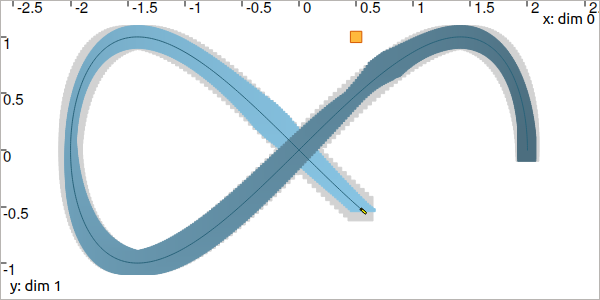
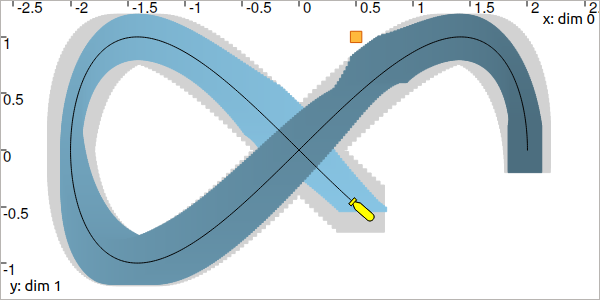
[tuto] updated Lesson E

Changed region(s): [[0.06, 0.03, 0.93, 0.96], [0.27, 0.84, 0.3, 0.87], [0.18, 0.84, 0.21, 0.87]]

diff --git a/doc/doc/tutorial/05-tubes/solution.py b/doc/doc/tutorial/05-tubes/solution.py
@@ -1,0 +1,80 @@
+from pyibex import *
+from tubex_lib import *
+import math
+
+# E.1.
+dt = 0.01
+tdomain = Interval(0,5) # temporal domain [t0,tf]
+actual_x = TrajectoryVector(tdomain, TFunction("(2*cos(t) ; sin(2*t))"), dt)
+
+# E.2.
+b=(0.5,1)
+
+# E.3.
+beginDrawing()
+
+fig_map = VIBesFigMap("Map")
+fig_map.set_properties(100, 100, 600, 300)
+fig_map.add_trajectory(actual_x, "x*", 0, 1, "black")
+fig_map.add_beacon(b, 0.1)                    # 0.1: landmark width
+fig_map.axis_limits(-2.5,2.5,-0.1,0.1, True)
+fig_map.show(0.5)                             # argument is robot size
+
+# E.4.
+actual_y = sqrt(sqr(actual_x[0]-b[0])+sqr(actual_x[1]-b[1]))
+
+# E.5.
+fig_dist = VIBesFigTube("Distance to the landmark")
+fig_dist.set_properties(100, 100, 600, 300)
+fig_dist.add_trajectory(actual_y, "y*")
+fig_dist.show()
+
+# E.6.
+x = TubeVector(actual_x, dt)
+
+# E.7.
+x.inflate(0.2)
+
+# E.8.
+fig_map.add_tube(x, "x", 0, 1)
+fig_map.show(0.5)
+
+# E.9.
+y = Tube(actual_y, dt)
+
+# E.10.
+b_box = IntervalVector(b) # creating a domain for b
+
+cn = ContractorNetwork()
+cn.add(ctc.dist, [x,b_box,y])
+cn.contract()
+fig_map.show(0.5)
+
+# E.11.
+actual_v = TrajectoryVector(tdomain, TFunction("(-2*sin(t) ; 2*cos(2*t))"), dt)
+v = TubeVector(actual_v, dt).inflate(0.01)
+
+# E.12.
+cn = ContractorNetwork()
+cn.add(ctc.dist, [x,b_box,y])
+cn.add(ctc.deriv, [x,v])
+cn.contract()
+fig_map.show(0.5)
+
+# E.13. (optional)
+n = RandTrajectory(tdomain, 0.01, Interval(-0.02,0.02))
+actual_y += n
+y = Tube(actual_y, dt)
+
+# E.14. (optional)
+y.inflate(0.02)
+
+# E.15. (optional)
+x = TubeVector(actual_x, dt).inflate(0.2)
+cn = ContractorNetwork()
+cn.add(ctc.dist, [x,b_box,y])
+cn.add(ctc.deriv, [x,v])
+cn.contract()
+fig_map.show(0.5)
+
+endDrawing()

diff --git a/doc/doc/tutorial/05-tubes/index.rst b/doc/doc/tutorial/05-tubes/index.rst
@@ -73,20 +73,22 @@ The following code creates the actual (but unknown) trajectory :math:`\mathbf{x}
 
   .. code-tab:: py
 
+    dt = 0.01
     tdomain = Interval(0,5) # temporal domain [t0,tf]
-    actual_x = TrajectoryVector(tdomain, TFunction("(2*cos(t) ; sin(2*t))"), 0.01)
+    actual_x = TrajectoryVector(tdomain, TFunction("(2*cos(t) ; sin(2*t))"), dt)
 
   .. code-tab:: c++
 
+    double dt = 0.01;
     Interval tdomain(0,5); // temporal domain [t0,tf]
-    TrajectoryVector actual_x(tdomain, TFunction("(2*cos(t) ; sin(2*t))"), 0.01);
+    TrajectoryVector actual_x(tdomain, TFunction("(2*cos(t) ; sin(2*t))"), dt);
 
 .. figure:: ../../manual/02-variables/img/lissajous.png
 
   Top view. The yellow robot follows a Lissajous curve forming an :math:`\infty` symbol.
 
 | The ``TFunction`` object depicts a temporal function. It is similar to the ``Function`` objects we have seen previously, but the ``t`` variable is already defined. In this example, the output of the function is two-dimensional (defined with parenthesis).
-| The last argument ``0.01`` converts the analytical function into a discretized signal with :math:`\delta=0.01`.
+| The last argument ``dt`` converts the analytical function into a discretized signal with :math:`\delta=0.01`.
 
 
 .. admonition:: Exercise
@@ -107,7 +109,7 @@ The following code creates the actual (but unknown) trajectory :math:`\mathbf{x}
       fig_map.add_trajectory(actual_x, "x*", 0, 1)
       fig_map.add_beacon(b, 0.1)                    # 0.1: landmark width
       fig_map.axis_limits(-2.5,2.5,-0.1,0.1, True)
-      fig_map.show(0.25)                            # argument is robot size
+      fig_map.show(0.5)                             # argument is robot size
 
     .. code-tab:: cpp
     
@@ -116,7 +118,7 @@ The following code creates the actual (but unknown) trajectory :math:`\mathbf{x}
       fig_map.add_trajectory(actual_x, "x*", 0, 1);
       fig_map.add_beacon(b, 0.1);                   // 0.1: landmark width
       fig_map.axis_limits(-2.5,2.5,-0.1,0.1, true);
-      fig_map.show(0.25);                           // argument is robot size
+      fig_map.show(0.5);                            // argument is robot size
 
   **E.4.** The robot continuously measures its distance to the landmark :math:`\mathbf{b}`.
 
@@ -223,21 +225,23 @@ Tubes can also be built from trajectories. In this example, we could have define
 
 .. admonition:: Exercise
 
-  **E.6.** Create a 2d tube :math:`[\mathbf{x}](\cdot)` enclosing :math:`\mathbf{x}^*(\cdot)`.
+  **E.6.** Using the class ``TubeVector``, create a 2d tube :math:`[\mathbf{x}](\cdot)` enclosing :math:`\mathbf{x}^*(\cdot)`. You may refer :ref:`to the manual <sec-manual-tubes-tubevector>` for more information on ``TubeVector``.
 
   **E.7.** Using the ``.inflate()`` method on ``x``, inflate the tube so that :math:`\forall t,[\mathbf{x}](t)=\mathbf{x}^*(t)+[-0.2,0.2]`.
 
-  **E.8.** Display the tube in the previous figure (before the ``.show()`` method) with:
+  **E.8.** Display the tube in the previous figure with:
 
   .. tabs::
 
     .. code-tab:: py
 
       fig_map.add_tube(x, "x", 0, 1)
+      fig_map.show() # this method must be called to display the added objects
 
     .. code-tab:: c++
 
       fig_map.add_tube(&x, "x", 0, 1);
+      fig_map.show(); // this method must be called to display the added objects
 
   Is the actual trajectory :math:`\mathbf{x}^*(\cdot)` enclosed in :math:`[\mathbf{x}](\cdot)` at any time?
 
@@ -259,11 +263,12 @@ For instance, one can contract three tubes :math:`[a](\cdot)`, :math:`[b](\cdot)
 
   .. code-tab:: py
 
-    # a = Tube(...
+    # a = Tube(...  (creating tubes)
     # b = Tube(...
     # c = Tube(...
 
-    ctc_add = CtcFunction(Function("x1", "x2", "x3", "x1+x2-x3"))
+    # The constraint "x1+x2=x3" is equivalent to "x1+x2-x3=0":
+    ctc_add = CtcFunction(Function("x1", "x2", "x3", "x1+x2-x3"), Interval(0))
 
     cn = ContractorNetwork()
     cn.add(ctc_add, [a,b,c]) # the tubes are listed according to the constraint definition
@@ -271,11 +276,12 @@ For instance, one can contract three tubes :math:`[a](\cdot)`, :math:`[b](\cdot)
 
   .. code-tab:: c++
 
-    // a = Tube(...
+    // a = Tube(...  (creating tubes)
     // b = Tube(...
     // c = Tube(...
 
-    CtcFunction ctc_add(Function("x1", "x2", "x3", "x1+x2-x3"));
+    // The constraint "x1+x2=x3" is equivalent to "x1+x2-x3=0":
+    CtcFunction ctc_add(Function("x1", "x2", "x3", "x1+x2-x3"), Interval(0));
 
     ContractorNetwork cn;
     cn.add(ctc_add, {a,b,c}); // the tubes are listed according to the constraint definition
@@ -320,13 +326,13 @@ For instance, one can contract three tubes :math:`[a](\cdot)`, :math:`[b](\cdot)
 Dealing with a differential equation
 ------------------------------------
 
-The equation :math:`\dot{\mathbf{x}}(t)=\mathbf{f}\big(\mathbf{x}(t),\mathbf{u}(t)\big)` depicts the evolution of the robot. In this lesson, we assume that its actual speed :math:`\mathbf{v}^*(\cdot)` is given in the absolute frame by:
+The equation :math:`\dot{\mathbf{x}}(t)=\mathbf{f}\big(\mathbf{x}(t),\mathbf{u}(t)\big)` depicts the evolution of the robot. In this lesson, we assume that its actual speed :math:`\mathbf{v}^*(\cdot)` is given in the absolute reference frame by:
 
 .. math::
 
   \mathbf{v}^*(t) = \left(\begin{array}{c}-2\sin(t)\\2\cos(2t)\end{array}\right)
 
-Note that there is no difficulty to handle datasets instead of analytical functions: once the tube is defined (from functions are data), then the constraints will act on it in the same manner.
+Note that there is no difficulty to handle datasets instead of analytical functions: once the tube is defined (from functions or datasets), then the constraints will act on its bounds, in the same manner.
 
 Then, the evolution equation amounts to :math:`\dot{\mathbf{x}}(t)=\mathbf{v}(t)`.
 
@@ -355,9 +361,8 @@ Then, the evolution equation amounts to :math:`\dot{\mathbf{x}}(t)=\mathbf{v}(t)
 
       ctc::deriv // object already created, as for ctc::polar
 
-  Add this contractor to your Contractor Network.
-
-  You should obtain this result:
+  | Add this contractor to your Contractor Network.
+  | You should obtain this result:
 
   .. figure:: img/tube_ctc_all.png
 
